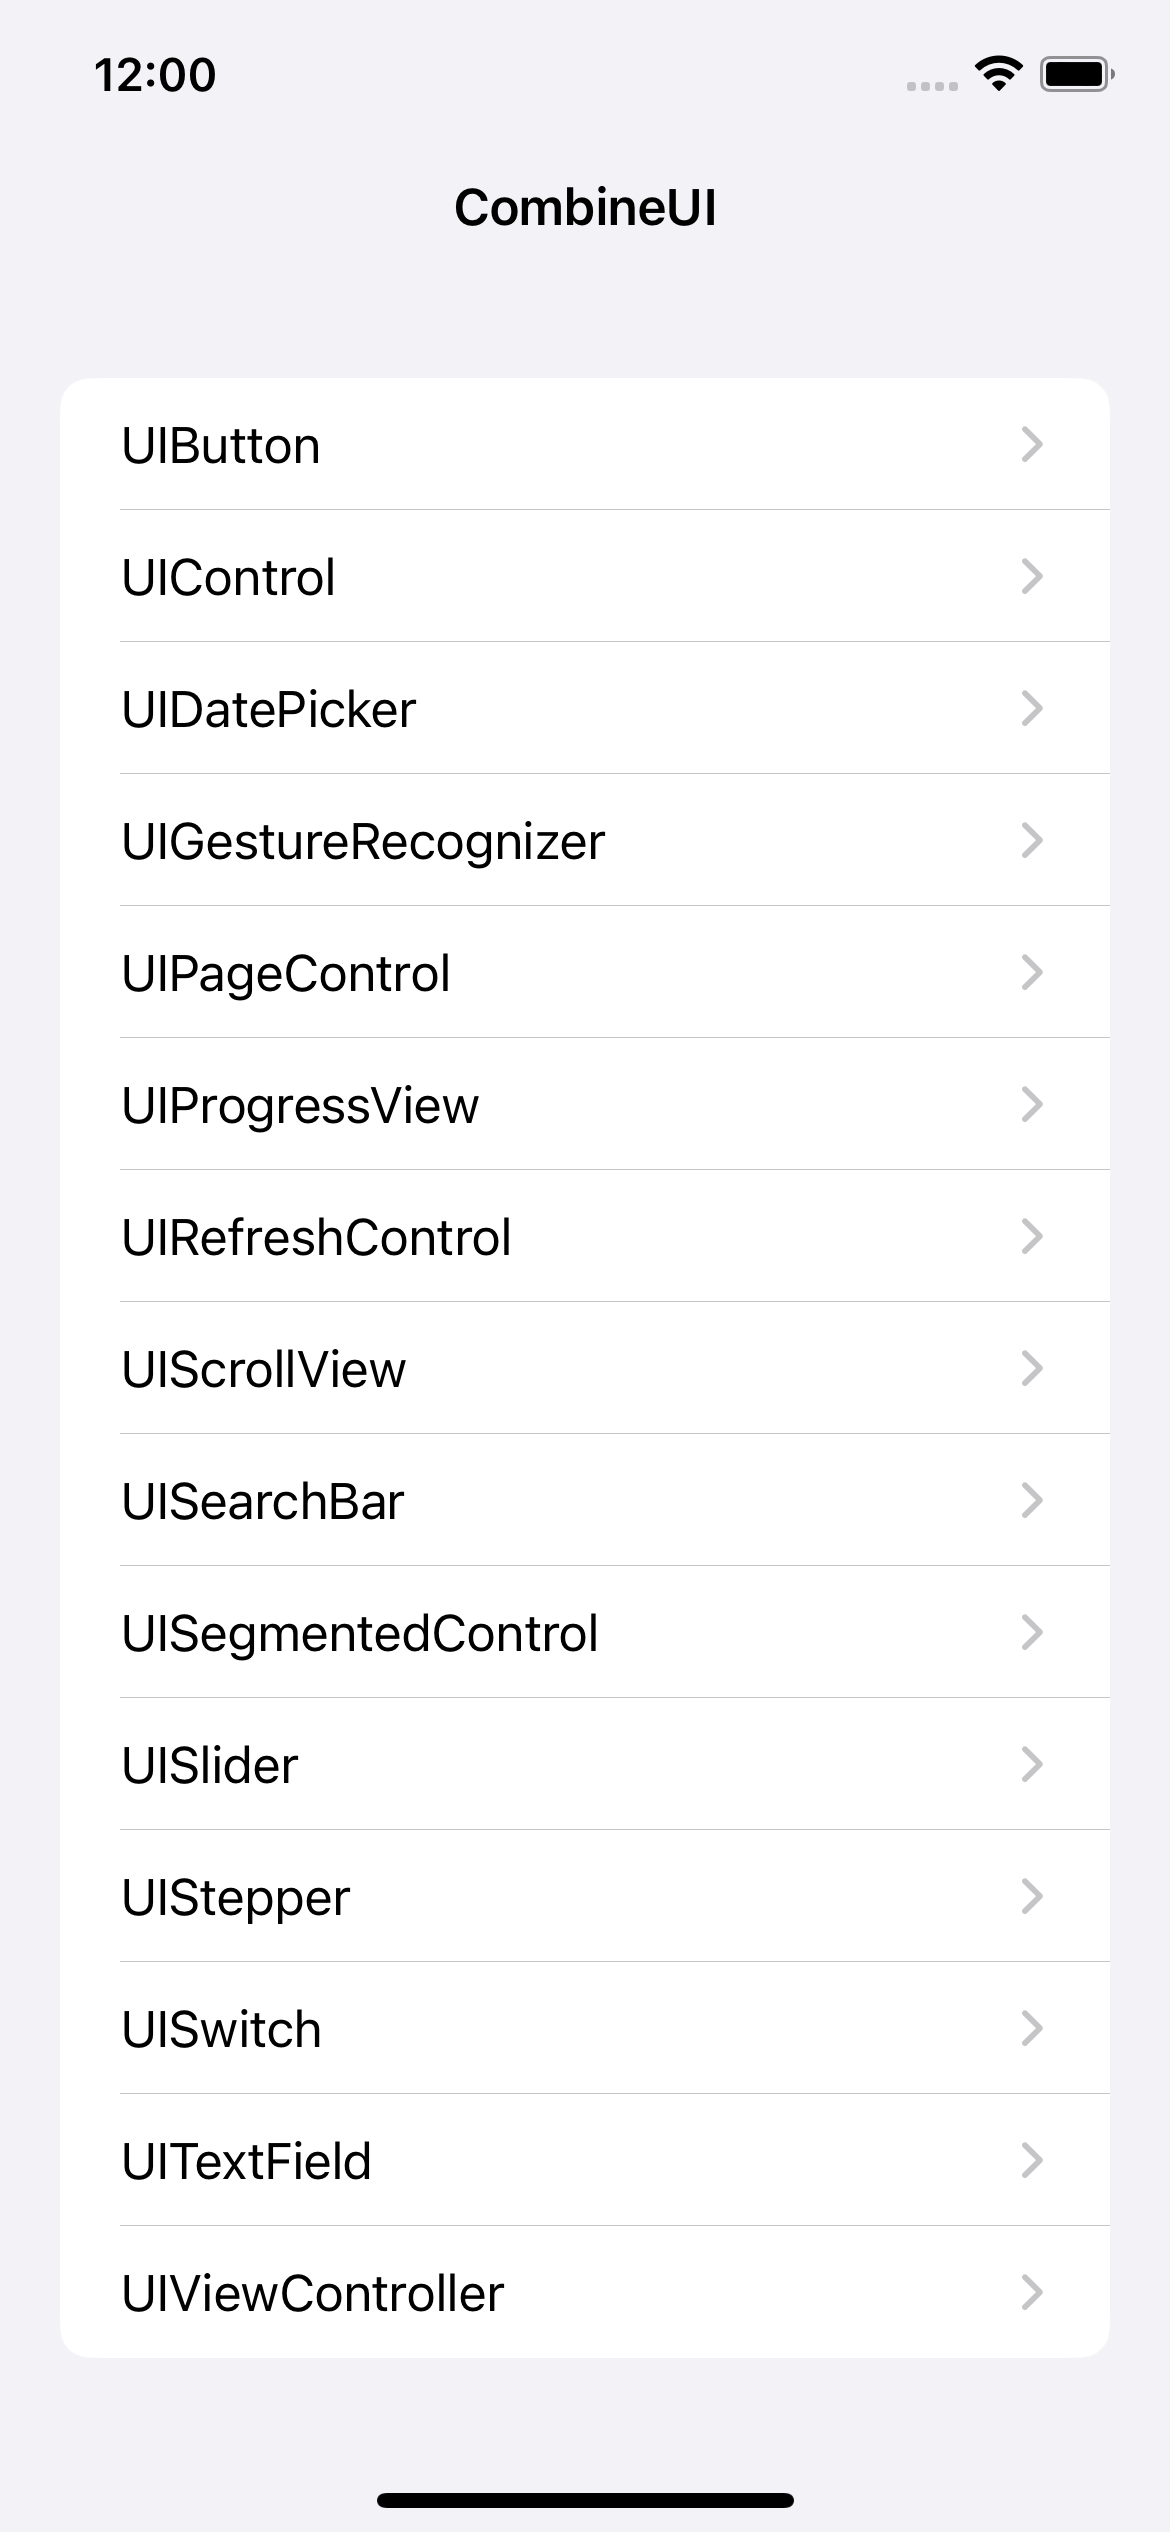
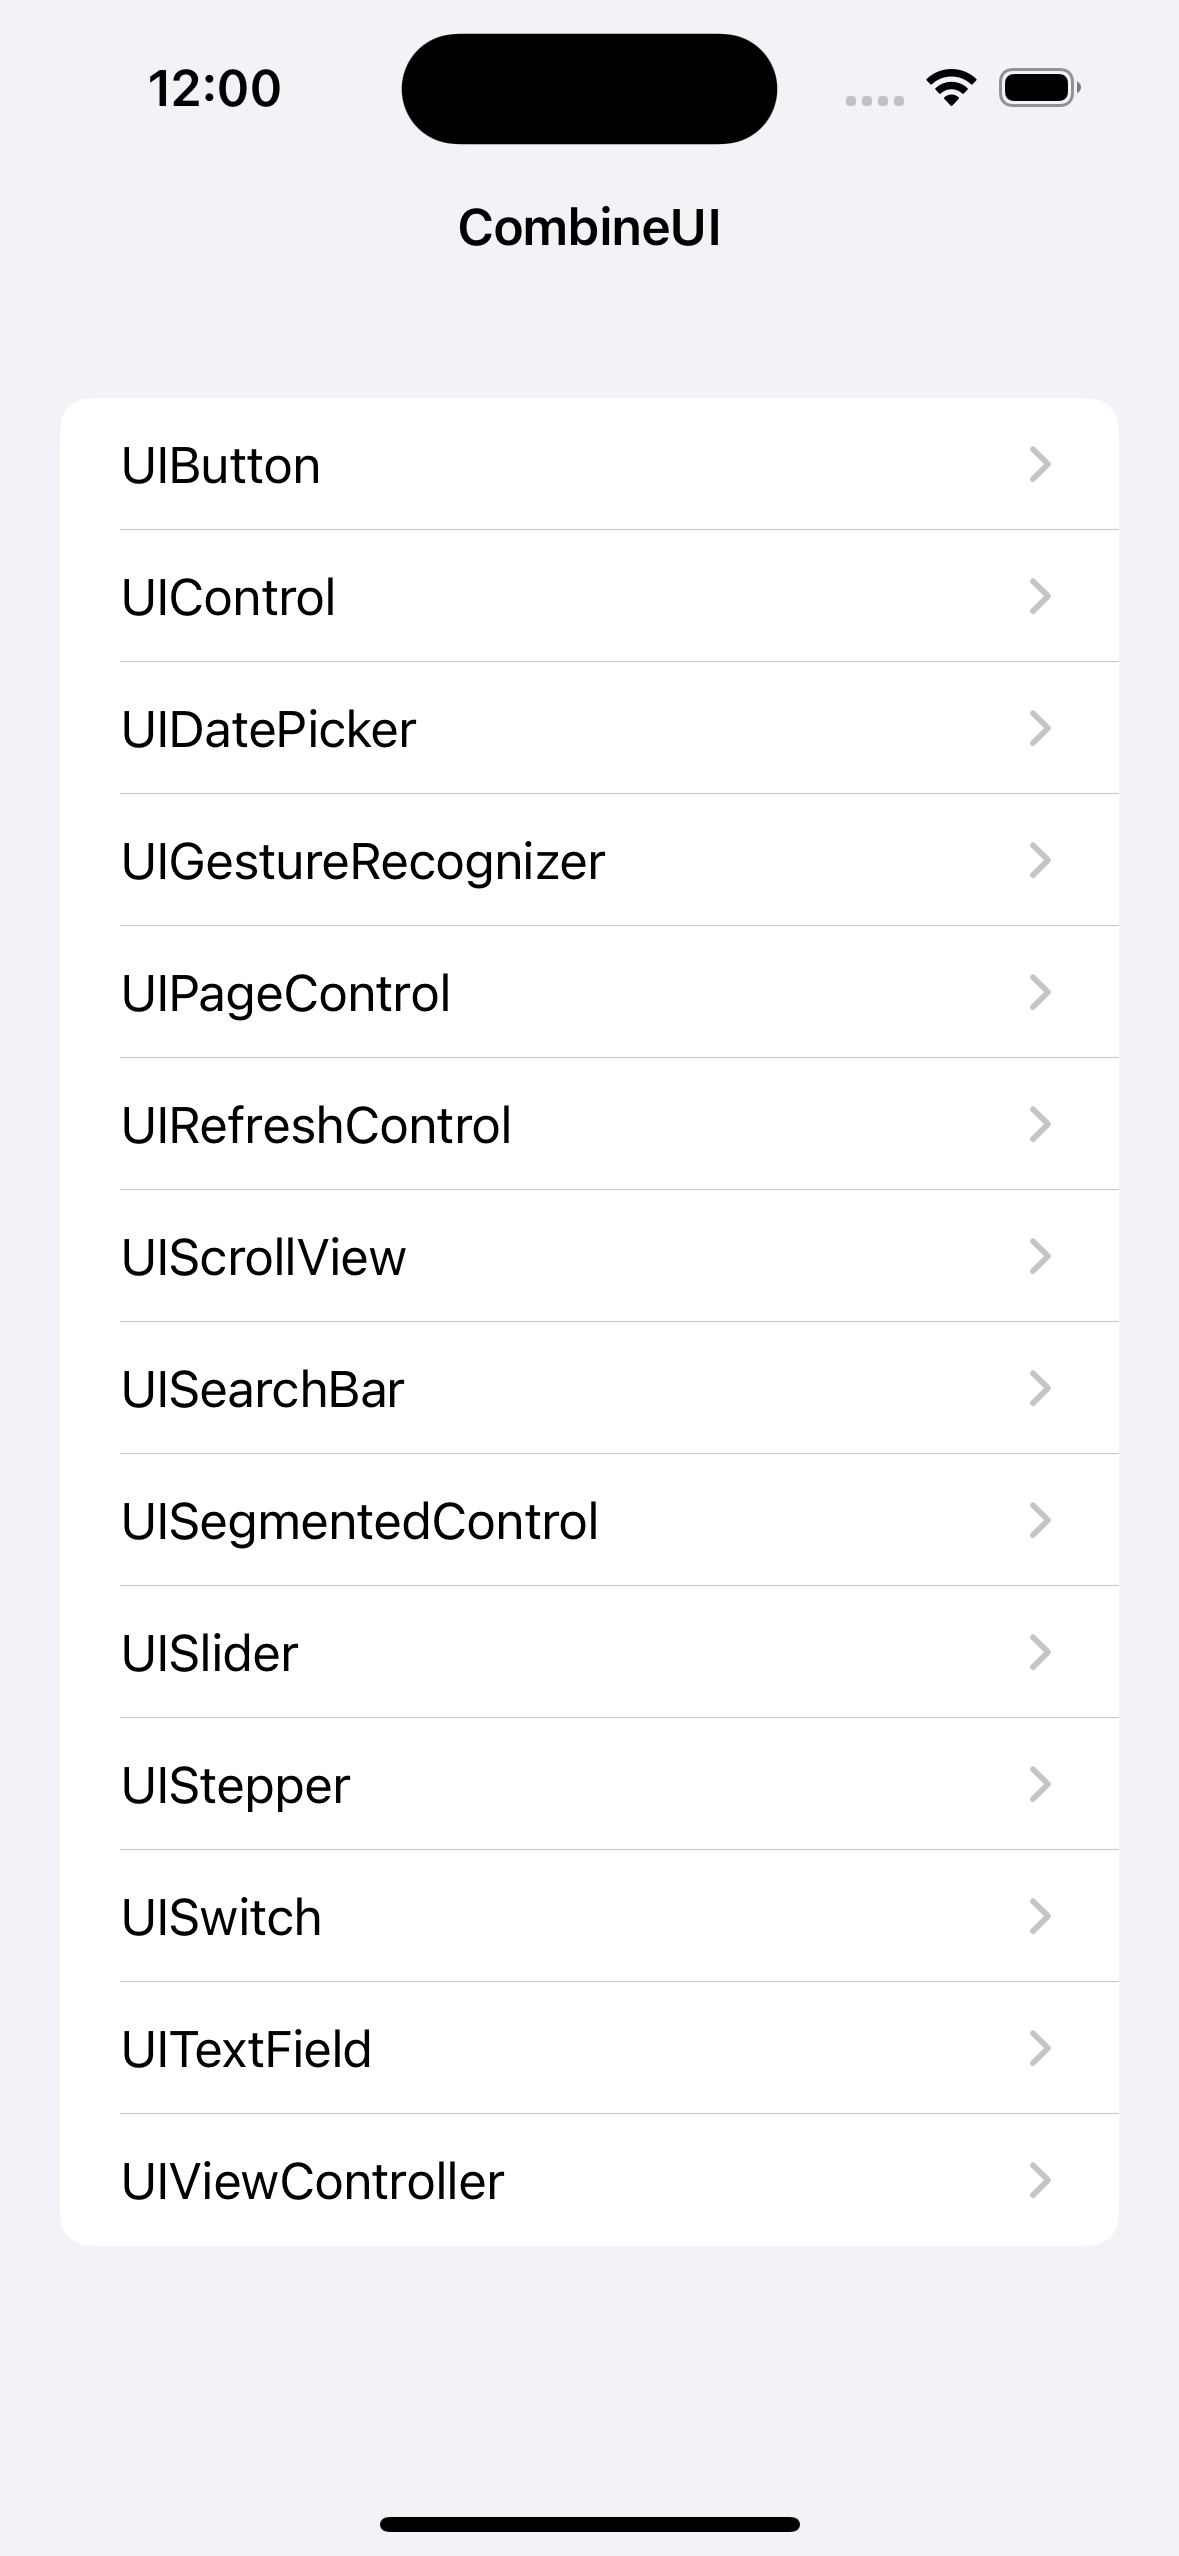
Remove ProgressView property wrapper (#23)

diff --git a/Example/Example/Sources/MenuViewController.swift b/Example/Example/Sources/MenuViewController.swift
@@ -14,7 +14,6 @@ class MenuViewController: UICollectionViewController {
         ("UIDatePicker", DatePickerExample.self),
         ("UIGestureRecognizer", GestureRecognizerExample.self),
         ("UIPageControl", PageControlExample.self),
-        ("UIProgressView", ProgressViewExample.self),
         ("UIRefreshControl", RefreshControlExample.self),
         ("UIScrollView", ScrollViewExample.self),
         ("UISearchBar", SearchBarExample.self),

diff --git a/README.md b/README.md
@@ -118,7 +118,7 @@ lifecycle
 
 Additional examples are available within [an Xcode project included in this repository](Example/). See the [example project README containing setup instructions](Example/) for guidance.
 
-<img src="Example/Examples.png" width="234" />
+<img src="Example/Examples.png" width="393" />
 
 ## Cheat Sheets
 
@@ -133,7 +133,6 @@ Property Wrappers
 | `UIDatePicker` | `@DatePicker` | `DatePickerInterface` <tr></tr> |
 | `UIGestureRecognizer` | `@GestureRecognizer` | `GestureRecognizerInterface` <tr></tr> |
 | `UIPageControl` | `@PageControl` | `AnyPublisher<Int, Never>` <tr></tr> |
-| `UIProgressView` | `@ProgressView` | `AnyPublisher<Float, Never>` <tr></tr> |
 | `UIRefreshControl` | `@RefreshControl` | `AnyPublisher<Void, Never>` <tr></tr> |
 | `UIScrollView` | `@ScrollView` | `ScrollViewInterface` <tr></tr> |
 | `UISearchBar` | `@SearchBar` | `SearchBarInterface` <tr></tr> |
@@ -617,12 +616,6 @@ Extension Methods
       <td><code>UIPageControl</code></td>
       <td><code>currentPagePublisher()</code></td>
       <td><code>AnyPublisher&lt;Int, Never&gt;</code></td>
-    </tr>
-    <tr></tr>
-    <tr>
-      <td><code>UIProgressView</code></td>
-      <td><code>progressPublisher()</code></td>
-      <td><code>AnyPublisher&lt;Float, Never&gt;</code></td>
     </tr>
     <tr></tr>
     <tr>
@@ -1146,16 +1139,6 @@ pageControl
 
 ## `UIProgressView`
 
-| Property |
-| :-- |
-| `.progress` <tr></tr> |
-
-### Property Wrapper
-
-```swift
-@ProgressView // Projected Value: AnyPublisher<Float, Never>
-```
-
 ### Bindings
 
 ```swift
@@ -1166,24 +1149,10 @@ var progress: Binding<Float>
 func progress(animated: Bool) -> Binding<Float>
 ```
 
-### Extension Method
-
-```swift
-func progressPublisher() -> AnyPublisher<Float, Never>
-```
-
 ### Code Example
 
 ```swift
-// Property Wrapper
-
-@ProgressView var progressView = UIProgressView()
-
-$progressView
-    .sink { progress in }
-    .store(in: &cancellables)
-
-// Bindings
+let progressView = UIProgressView()
 
 Just(.systemPink)
     .bind(to: progressView.bindable.trackTintColor)
@@ -1200,28 +1169,6 @@ Just(1)
 Just(1)
     .bind(to: progressView.bindable.progress(animated: true))
     .store(in: &cancellables)
-
-// Extension Method
-
-progressView
-    .progressPublisher()
-    .sink { progress in }
-    .store(in: &cancellables)
-```
-
-### Notes
-
-- Due to `UIProgressView` behavior, only non-animated progress is published unless monkey-patched, for example:
-
-```swift
-class ProgressView: UIProgressView {
-
-    override func setProgress(_ progress: Float, animated: Bool) {
-        willChangeValue(for: \.progress)
-        super.setProgress(progress, animated: animated)
-        didChangeValue(for: \.progress)
-    }
-}
 ```
 
 ## `UIRefreshControl`

diff --git a/Example/README.md b/Example/README.md
@@ -1,6 +1,6 @@
 # CombineUI Example Project
 
-<img src="Examples.png" width="234" />
+<img src="Examples.png" width="393" />
 
 ## Project Setup
 
